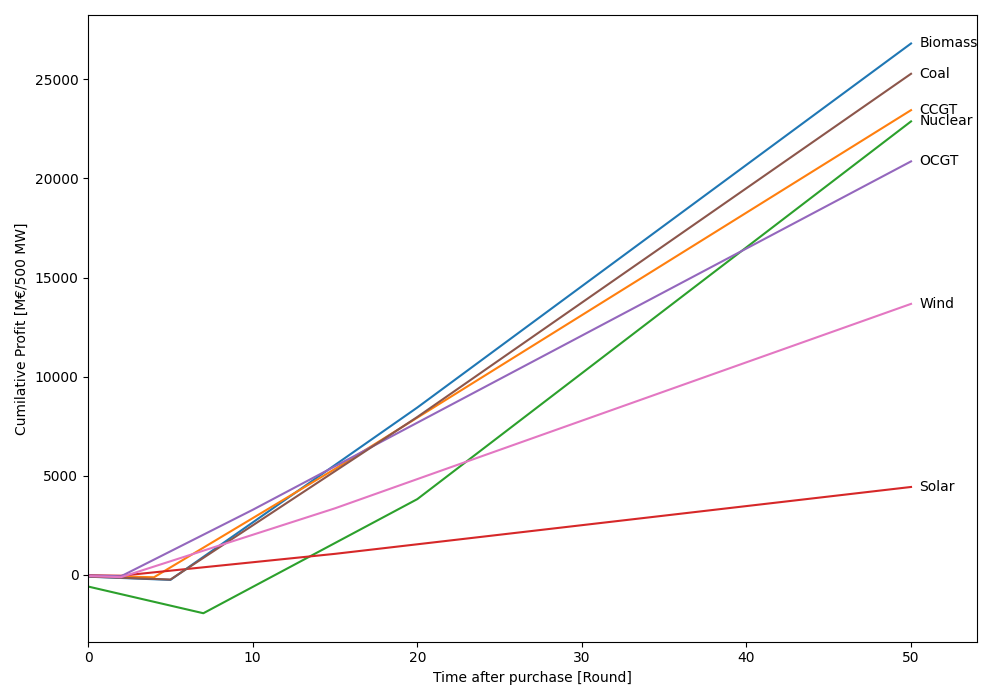
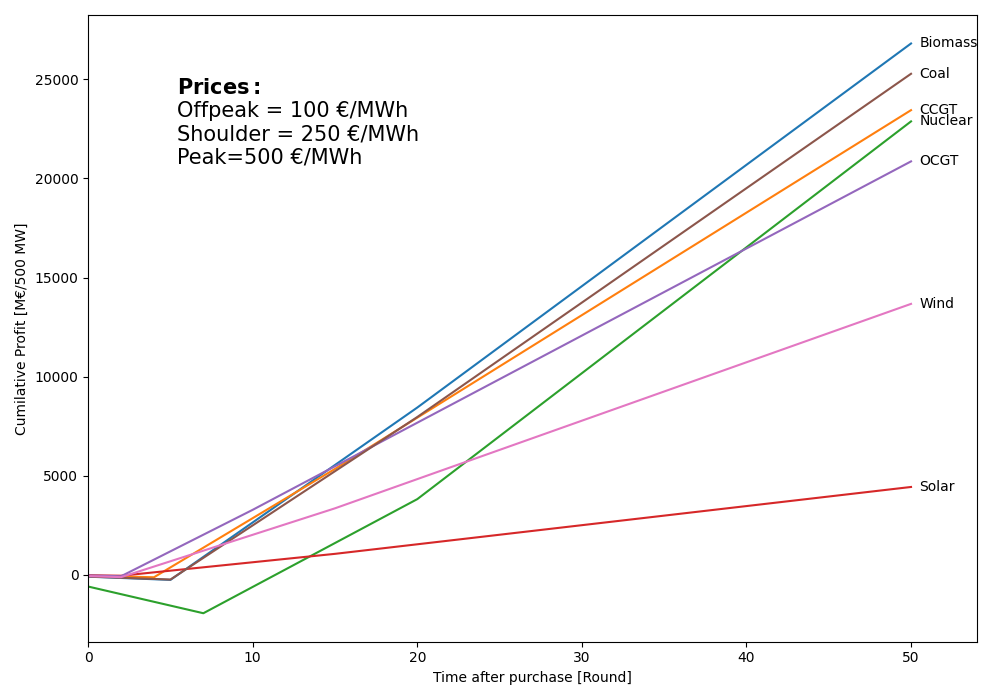
.

Changed region(s): [[0.155, 0.09, 0.434, 0.24]]

diff --git a/NE6/game/game.py b/NE6/game/game.py
@@ -176,6 +176,15 @@ for i in ren:
         va='center'
     )
 
+plt.text(
+    0.1, 0.9,
+    r"$\mathbf{Prices:}$" + "\nOffpeak = 30 €/MWh\nShoulder = 50 €/MWh\nPeak=100 €/MWh",
+    transform=plt.gca().transAxes,
+    fontsize=15,
+    ha='left',                         
+    va='top'
+)
+
 plt.xlim(0, 54)
 plt.ylabel("Cumilative Profit [M€/500 MW]")
 plt.xlabel("Time after purchase [Round]")
